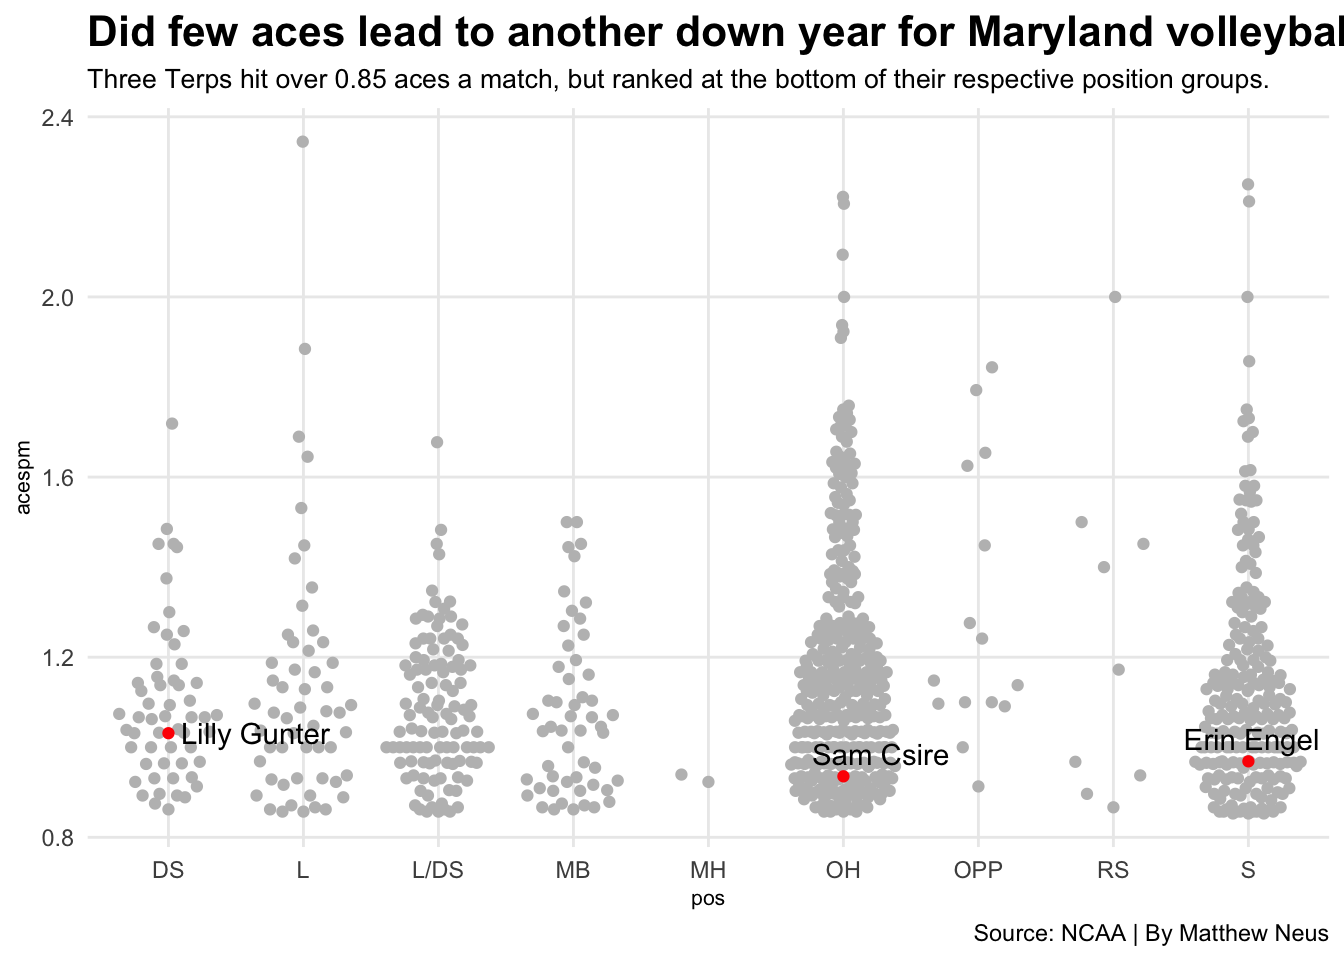
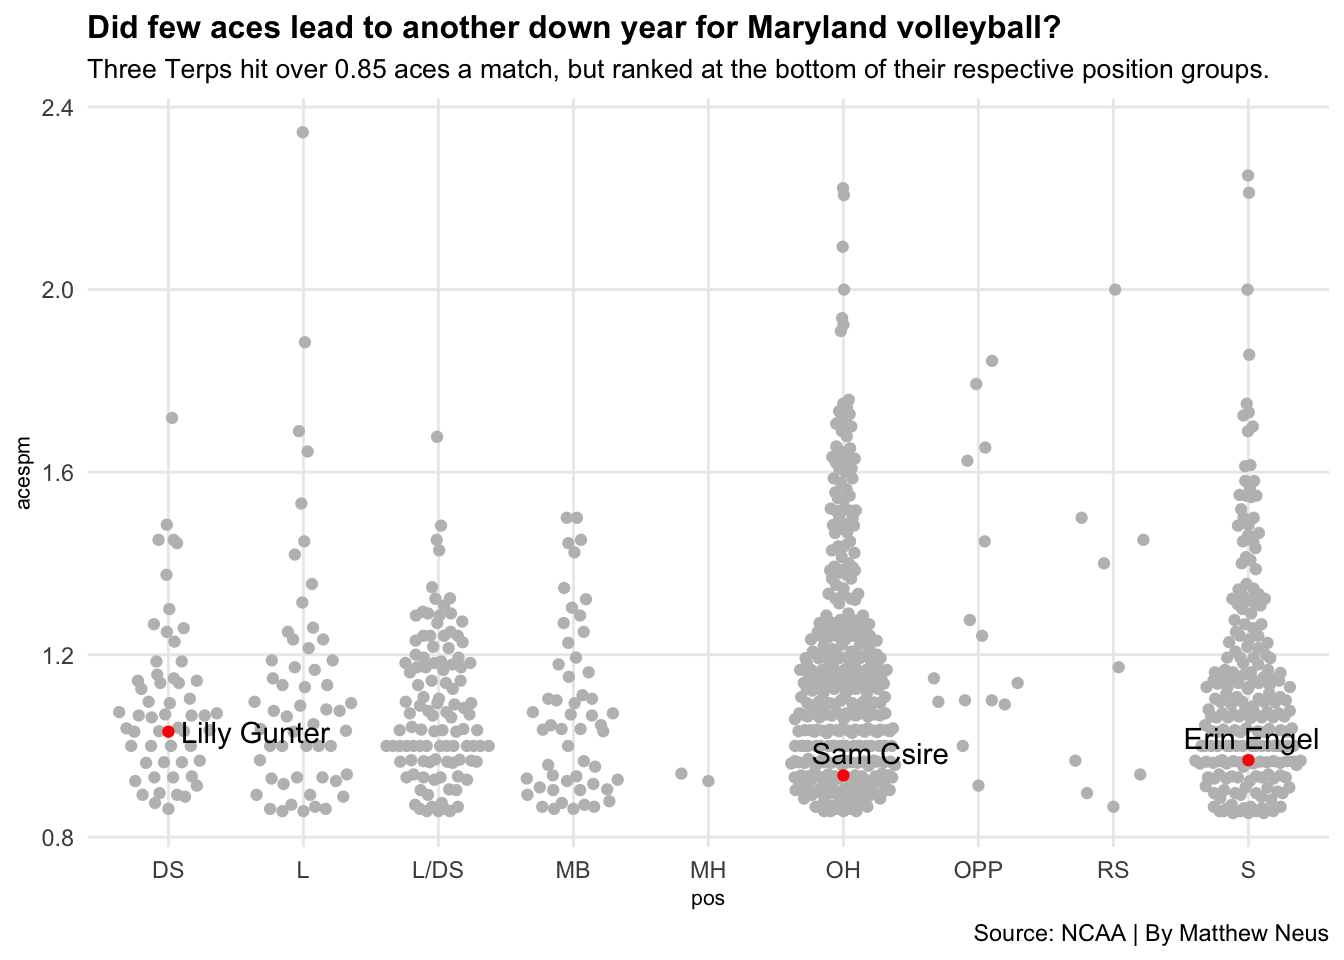
updated volleyball

diff --git a/docs/posts/volleyball-aces/index.html b/docs/posts/volleyball-aces/index.html
@@ -237,7 +237,7 @@ pre > code.sourceCode > span > a:first-child::before { text-decoration: underlin
 <span id="cb2-12"><a href="#cb2-12" aria-hidden="true" tabindex="-1"></a>    <span class="fu">aes</span>(<span class="at">x=</span>pos, <span class="at">y=</span>acespm, <span class="at">label=</span>full_name)) <span class="sc">+</span></span>
 <span id="cb2-13"><a href="#cb2-13" aria-hidden="true" tabindex="-1"></a>  <span class="fu">labs</span>(<span class="at">title=</span><span class="st">"Did few aces lead to another down year for Maryland volleyball?"</span>, <span class="at">subtitle=</span><span class="st">"Three Terps hit over 0.85 aces a match, but ranked at the bottom of their respective position groups."</span>, <span class="at">caption=</span><span class="st">"Source: NCAA | By Matthew Neus"</span>)  <span class="sc">+</span> <span class="fu">theme_minimal</span>() <span class="sc">+</span> </span>
 <span id="cb2-14"><a href="#cb2-14" aria-hidden="true" tabindex="-1"></a>  <span class="fu">theme</span>(</span>
-<span id="cb2-15"><a href="#cb2-15" aria-hidden="true" tabindex="-1"></a>    <span class="at">plot.title =</span> <span class="fu">element_text</span>(<span class="at">size =</span> <span class="dv">16</span>, <span class="at">face =</span> <span class="st">"bold"</span>),</span>
+<span id="cb2-15"><a href="#cb2-15" aria-hidden="true" tabindex="-1"></a>    <span class="at">plot.title =</span> <span class="fu">element_text</span>(<span class="at">size =</span> <span class="dv">12</span>, <span class="at">face =</span> <span class="st">"bold"</span>),</span>
 <span id="cb2-16"><a href="#cb2-16" aria-hidden="true" tabindex="-1"></a>    <span class="at">axis.title =</span> <span class="fu">element_text</span>(<span class="at">size =</span> <span class="dv">8</span>), </span>
 <span id="cb2-17"><a href="#cb2-17" aria-hidden="true" tabindex="-1"></a>    <span class="at">plot.subtitle =</span> <span class="fu">element_text</span>(<span class="at">size=</span><span class="dv">10</span>), </span>
 <span id="cb2-18"><a href="#cb2-18" aria-hidden="true" tabindex="-1"></a>    <span class="at">panel.grid.minor =</span> <span class="fu">element_blank</span>()</span>

diff --git a/docs/index.html b/docs/index.html
@@ -205,7 +205,7 @@ window.Quarto = {
 
 <div class="quarto-listing quarto-listing-container-default" id="listing-listing">
 <div class="list quarto-listing-default">
-<div class="quarto-post image-right" data-index="0" data-categories="lowercaseword,lowercaseword,lowercaseword" data-listing-date-sort="1729742400000" data-listing-file-modified-sort="1729809259436" data-listing-date-modified-sort="NaN" data-listing-reading-time-sort="3" data-listing-word-count-sort="579">
+<div class="quarto-post image-right" data-index="0" data-categories="lowercaseword,lowercaseword,lowercaseword" data-listing-date-sort="1729742400000" data-listing-file-modified-sort="1729809494980" data-listing-date-modified-sort="NaN" data-listing-reading-time-sort="3" data-listing-word-count-sort="579">
 <div class="thumbnail">
 <p><a href="./posts/volleyball-aces/index.html" class="no-external"></a></p><a href="./posts/volleyball-aces/index.html" class="no-external">
 <p><img loading="lazy" src="./posts/volleyball-aces/image.png" class="thumbnail-image"></p>
